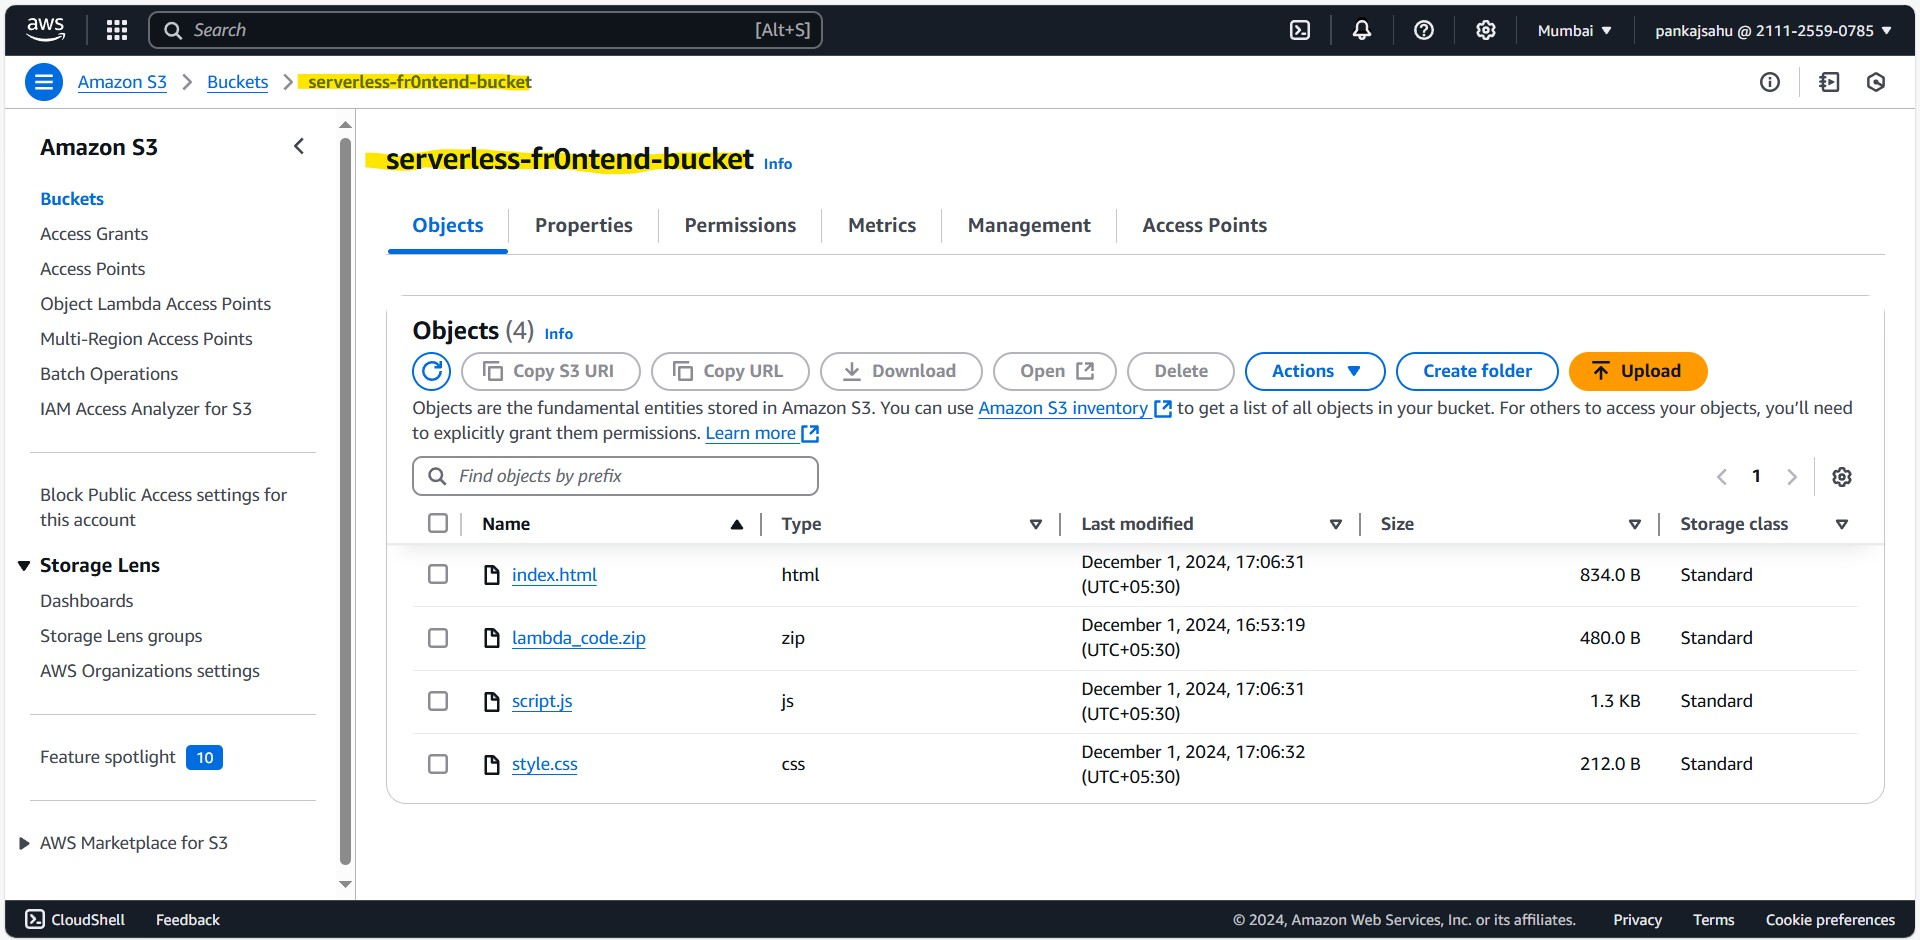
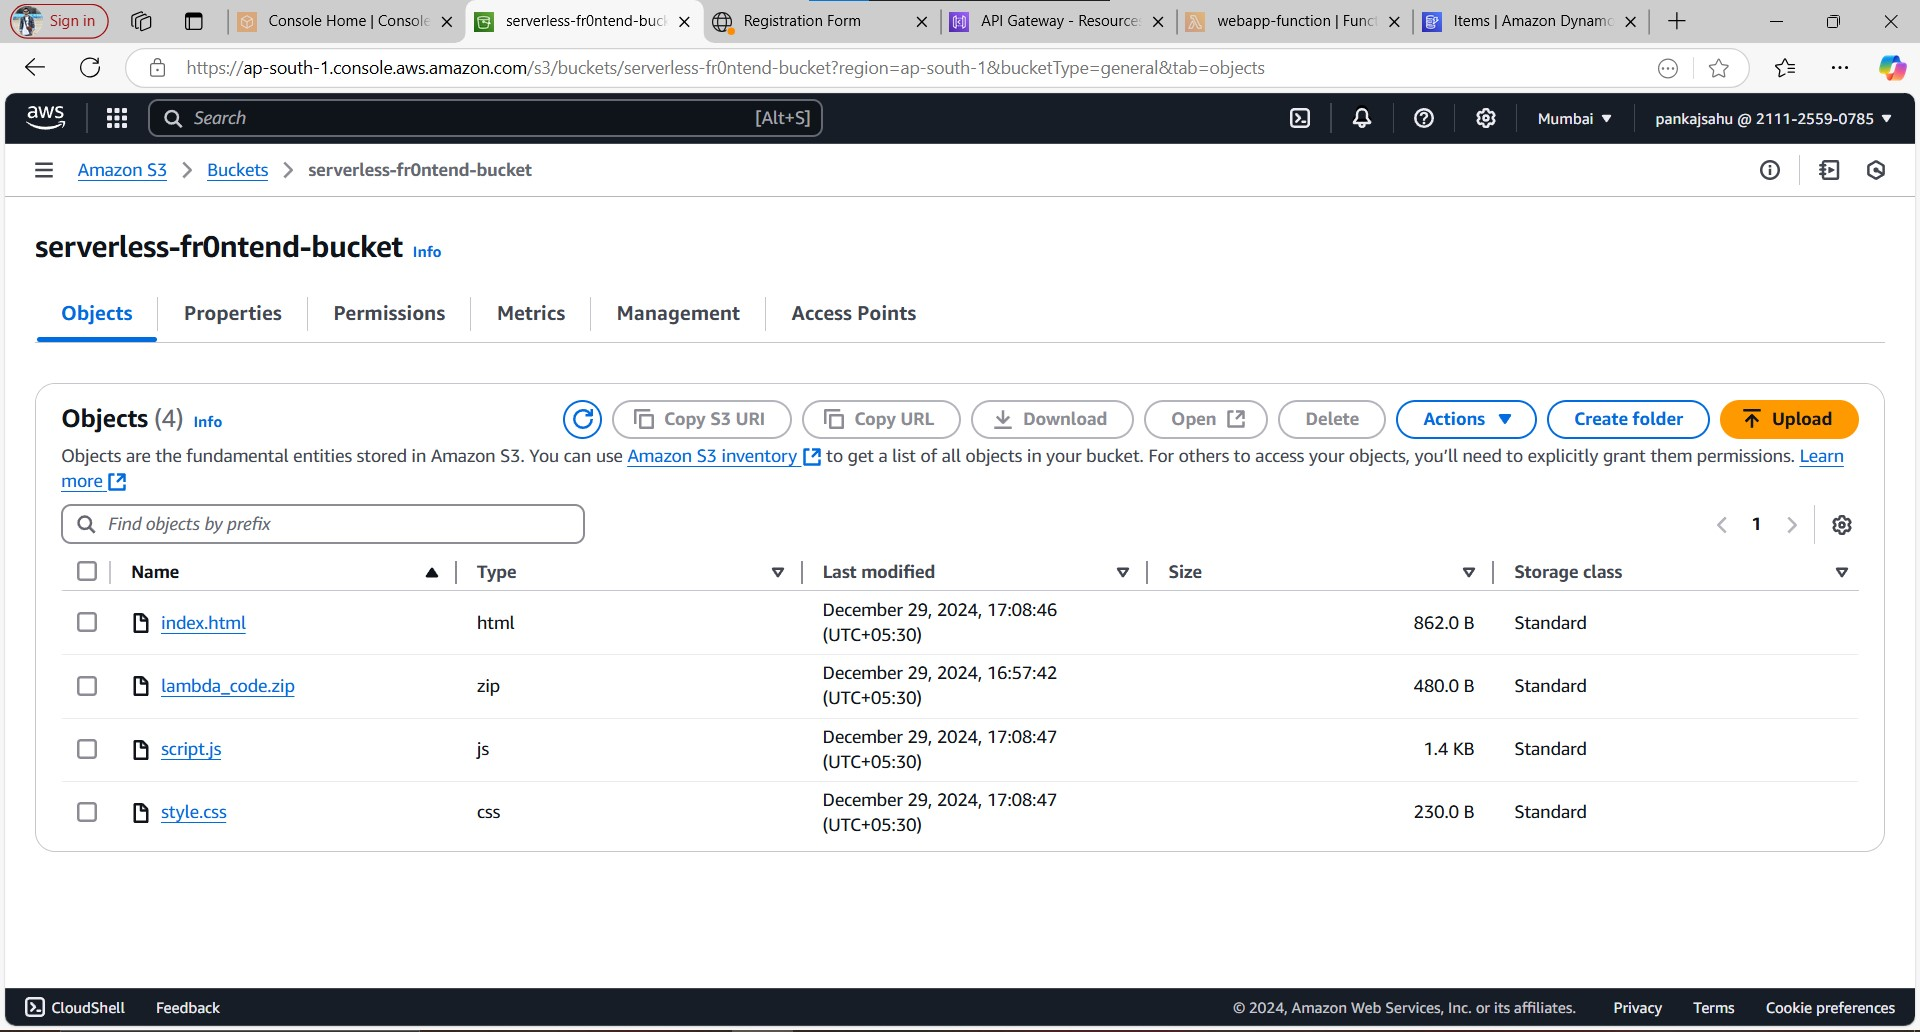
fix: fixed code for proper functioning

diff --git a/Frontend/script.js b/Frontend/script.js
@@ -12,7 +12,7 @@ function submitForm() {
 
     // Set up request
     //xhr.open('POST', 'API_INVOKE_URL/register', true);
-    xhr.open('POST', 'https://4j3d6a1042.execute-api.ap-south-1.amazonaws.com/dev/resource', true);
+    xhr.open('POST', 'https://un7bfph3qh.execute-api.ap-south-1.amazonaws.com/dev/register', true);
     xhr.setRequestHeader('Content-Type', 'application/json');
 
     // Set up response handler
